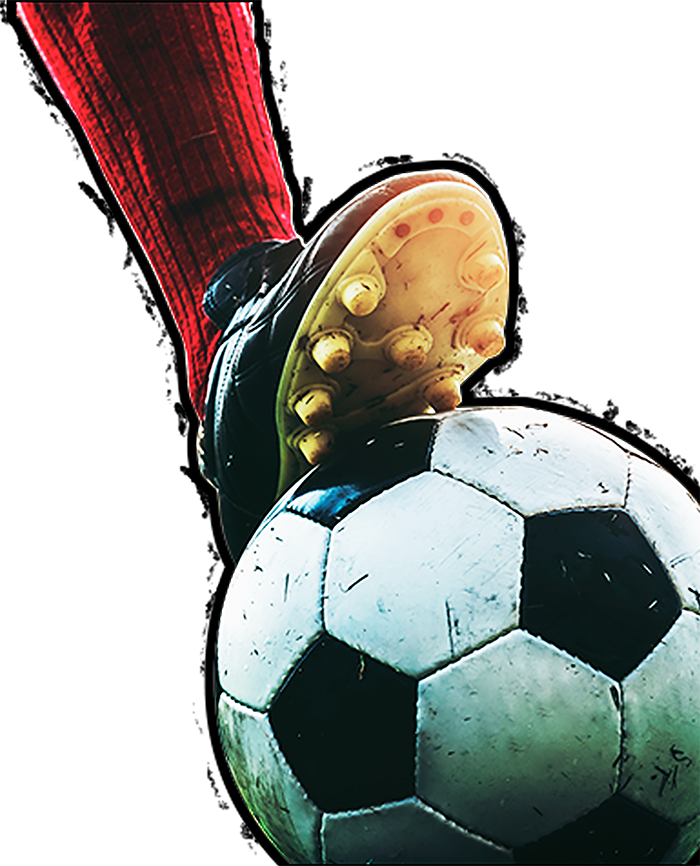
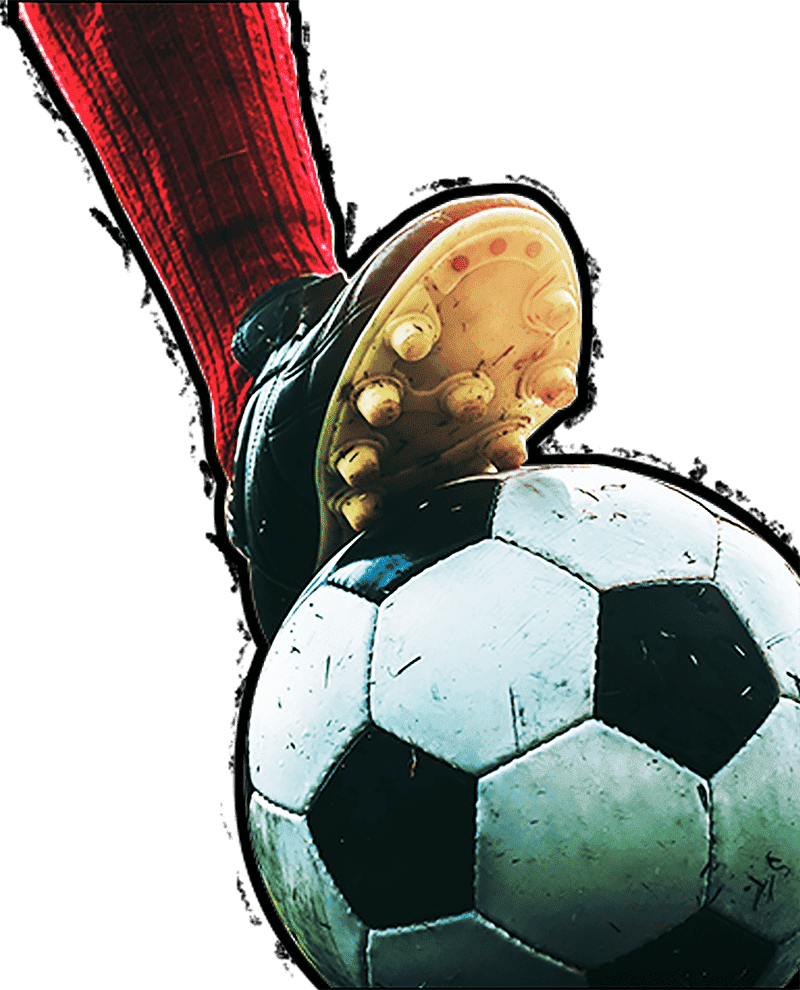
Front -reducción de imagenes

diff --git a/resources/views/registro.blade.php b/resources/views/registro.blade.php
@@ -24,7 +24,7 @@
 
 <style>
     .extremos{
-        background-image: url("img/background.png");
+        background-image: url("img/background1.png");
         background-repeat: no-repeat;
         background-size: cover;
         background-position: center;
@@ -41,18 +41,18 @@
     }
 
 
-    @media(max-width: 991px){
+    /*@media(max-width: 991px){*/
 
-        .extremos {
-            background-image: url("img/bgmobile.jpg");
-            background-repeat: no-repeat;
-            background-size: cover;
-            background-position: center;
+        /*.extremos {*/
+            /*background-image: url("img/bgmobile.jpg");*/
+            /*background-repeat: no-repeat;*/
+            /*background-size: cover;*/
+            /*background-position: center;*/
 
-        }
+        /*}*/
 
 
-    }
+    /*}*/
 
     footer {
         height: 00px;
@@ -252,7 +252,7 @@
         }
 
         .extremos {
-            background-image: url("img/bgmobile.jpg");
+            background-image: url("img/bgmobile1.jpg");
             background-repeat: no-repeat;
             background-size: cover;
             background-position: center;
@@ -272,13 +272,20 @@
             margin-top: 10px;
         }
         .divregistro {
-            top: 50%;
+            top: 42%;
         }
         .botonfonfig {
             height: 50px;
         }
         .txtregistro {
             font-size: 20px;
+        }
+
+
+    }
+    @media(max-width: 991px){
+        .txtregistro {
+            font-size: 15px;
         }
 
 
@@ -341,6 +348,7 @@
 
 
 
+
 </style>
 
 
@@ -349,7 +357,7 @@
     <div class="divregistro">
         <div>
             <div>
-                <h1 class="titulo tituloregistro">REGISTRA TU CÓDIGO</h1>
+                <h1 class="titulo tituloregistro">REGISTRA <br> TU CÓDIGO</h1>
             </div>
             <form>
                 <div class="recuadro">
@@ -380,22 +388,31 @@
                 </div>
             </form>
         </div>
+
+        {{--<div>--}}
+
+                {{--<div class="recuadro">--}}
+
+                    {{--<h2>!HAS SIDO REGISTRADO EXITOSAMENTE!</h2>--}}
+
+                {{--</div>--}}
+        {{--</div>--}}
     </div>
 
     <div class=" row extremos">
 
         <div class="col-md-7 imizq  d-flex align-items-end ">
-            <img src="img/pareja.png" alt="" width="" class="animated fadeInLeft imginterna1 imagenes ">
+            <img src="img/pareja1.png" alt="" width="" class="animated fadeInLeft imginterna1 imagenes ">
         </div>
-        <div class="col-md-5 imder imagenes">
-            <img src="img/balonpie.png" alt="" width="" class="animated fadeInDown imginterna2">
+        <div class="col-md-5 imder imagenes ">
+            <img src="img/balonpie1.png" alt="" width="" class="animated fadeInDown imginterna2">
         </div>
 
     </div>
     <footer class=" row">
         <div class="col-lg-6 ">
             <div class="">
-                <img src="img/logos.png" alt="" width="" class="logofooter">
+                <img src="img/logos1.png" alt="" width="" class="logofooter">
             </div>
         </div>
         <div class="col-md-6 divcopy">
@@ -430,7 +447,7 @@
 
     function myFunction(x) {
 
-        tamanio= $(window).height()-120;
+        tamanio= $(window).height()+100;
 
 
 
